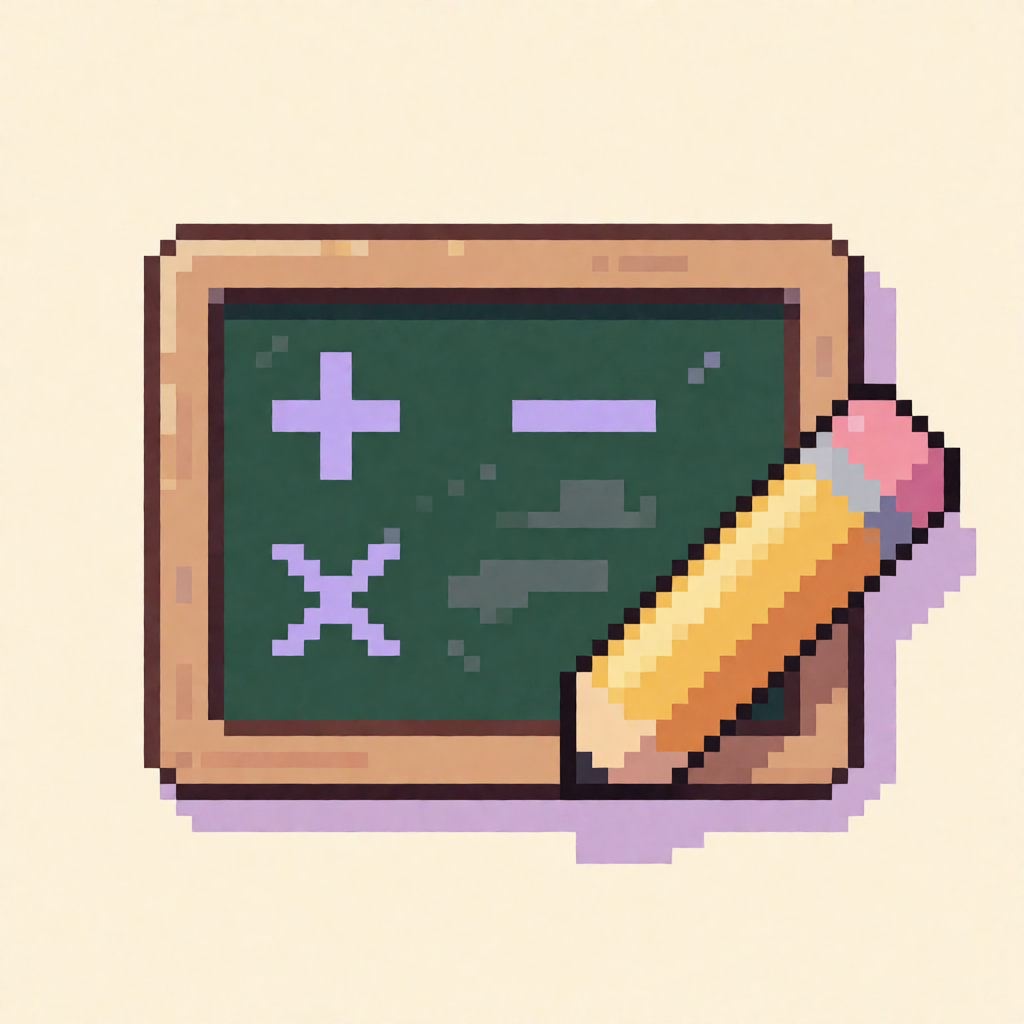
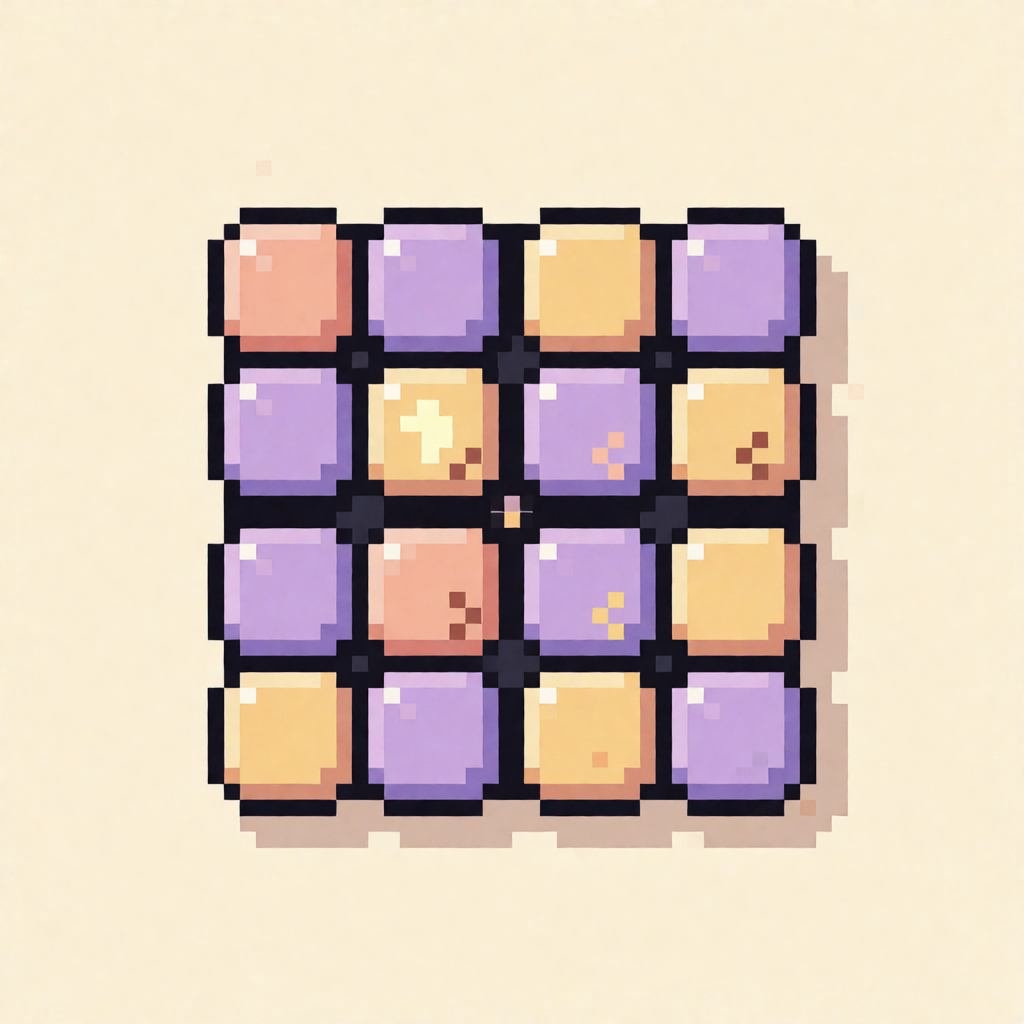
Remove duplicate samples, LAN --host flag, MIT footer, shorter README
- Drop duplicate fixtures sample_7/sample_8 (sample_2 replaced).
- Validators: default to $TMPDIR/gridsprite-validate (was a hardcoded
  machine-specific path) and clear stale dumps; 114/114 checks.
- GUI: add --host (default 127.0.0.1) with a warning on non-loopback
  binds; export dir now comes only from --outdir (was client-supplied
  and --outdir was ignored); 64 MB upload cap like the API.
- API: help text + warning for non-loopback --host.
- README: condensed, MIT footer, uses assets/hero.png as before/after.

diff --git a/gridsprite_gui.py b/gridsprite_gui.py
@@ -15,9 +15,10 @@ Features:
     + palette JSON/TXT)
 
 Usage:
-    python3 gridsprite_gui.py [--port 8642] [--outdir out]
+    python3 gridsprite_gui.py [--port 8642] [--outdir out] [--host 127.0.0.1]
 
 Opens http://127.0.0.1:PORT in your default browser. Ctrl+C to stop.
+Pass --host 0.0.0.0 to reach it from other devices on your network.
 """
 
 import argparse
@@ -38,6 +39,8 @@ import gridsprite as px
 
 SESSIONS = {}
 LOCK = threading.Lock()
+OUT_DIR = "out"                  # set from --outdir; never taken from requests
+MAX_BODY = 64 * 1024 * 1024      # 64 MB upload cap
 
 
 # ------------------------------------------------------------------ analysis
@@ -98,7 +101,7 @@ def export(data):
     if despeckle > 1:
         removed, _ = px.despeckle(mapping, despeckle,
                                   skip_idx=(transparent,) if transparent is not None else ())
-    outdir = data.get("outdir", "out")
+    outdir = OUT_DIR
     os.makedirs(outdir, exist_ok=True)
     base = os.path.splitext(os.path.basename(sess["name"]))[0]
     base = re.sub(r"[^A-Za-z0-9_.-]", "_", base)
@@ -161,6 +164,8 @@ class Handler(BaseHTTPRequestHandler):
 
     def read_body(self):
         n = int(self.headers.get("Content-Length", 0))
+        if n > MAX_BODY:
+            raise ValueError(f"body too large ({n} bytes; max {MAX_BODY})")
         return self.rfile.read(n)
 
     # -- routes -------------------------------------------------------------
@@ -179,7 +184,7 @@ class Handler(BaseHTTPRequestHandler):
             path = q.get("f", "")
             if os.path.dirname(path) or path.startswith("."):
                 return self.send_json({"error": "bad path"}, 400)
-            self.send_file_bytes(os.path.join("out", path))
+            self.send_file_bytes(os.path.join(OUT_DIR, path))
         else:
             self.send_json({"error": "not found"}, 404)
 
@@ -1431,13 +1436,20 @@ def main():
                                  formatter_class=argparse.RawDescriptionHelpFormatter)
     ap.add_argument("--port", type=int, default=8642)
     ap.add_argument("--outdir", default="out")
+    ap.add_argument("--host", default="127.0.0.1",
+                    help="bind address; 0.0.0.0 exposes it to your network")
     ap.add_argument("--no-browser", action="store_true")
     args = ap.parse_args()
+    global OUT_DIR
+    OUT_DIR = args.outdir
     url = f"http://127.0.0.1:{args.port}"
 
-    server = ThreadingHTTPServer(("127.0.0.1", args.port), Handler)
+    server = ThreadingHTTPServer((args.host, args.port), Handler)
     print(f"Gridsprite GUI running at {url}  (Ctrl+C to stop)")
-    print("Outputs are written to ./out/ as in the CLI.")
+    if args.host not in ("127.0.0.1", "localhost", "::1"):
+        print(f"WARNING: listening on {args.host}:{args.port} — anyone on your "
+              f"network can use it and write exports to {OUT_DIR}/")
+    print(f"Outputs are written to {OUT_DIR}/")
     if not args.no_browser:
         try:
             subprocess.Popen(["open", url])

diff --git a/gridsprite_api.py b/gridsprite_api.py
@@ -608,12 +608,16 @@ class Handler(BaseHTTPRequestHandler):
 def main():
     ap = argparse.ArgumentParser(description=__doc__)
     ap.add_argument("--port", type=int, default=8643)
-    ap.add_argument("--host", default="127.0.0.1")
+    ap.add_argument("--host", default="127.0.0.1",
+                    help="bind address; 0.0.0.0 exposes it to your network")
     args = ap.parse_args()
     ensure_out_dir()
     server = ThreadingHTTPServer((args.host, args.port), Handler)
     print(f"Gridsprite API v{API_VERSION} on http://{args.host}:{args.port}"
           f" — POST /api/v1/process with raw image bytes", flush=True)
+    if args.host not in ("127.0.0.1", "localhost", "::1"):
+        print(f"WARNING: listening on {args.host} — anyone on your network "
+              f"can use it", flush=True)
     try:
         server.serve_forever()
     except KeyboardInterrupt:

diff --git a/tools/validate_static.py b/tools/validate_static.py
@@ -11,6 +11,7 @@ import glob
 import json
 import os
 import sys
+import tempfile
 
 import numpy as np
 from PIL import Image
@@ -84,8 +85,13 @@ def dump(path, outdir):
 
 def main():
     outdir = sys.argv[1] if len(sys.argv) > 1 else \
-        "/private/var/folders/7m/5flc5f_968l56dfcl0d218700000gn/T/opencode/validate"
+        os.path.join(tempfile.gettempdir(), "gridsprite-validate")
     os.makedirs(outdir, exist_ok=True)
+    # drop dumps of fixtures that no longer exist, so the JS side never
+    # compares against stale references
+    for f in glob.glob(os.path.join(outdir, "*.expected.json")) + \
+            glob.glob(os.path.join(outdir, "*.raw")):
+        os.remove(f)
     here = os.path.dirname(os.path.abspath(__file__))
     root = os.path.dirname(here)
     files = sorted(glob.glob(os.path.join(root, "sample_*.png")))

diff --git a/README.md b/README.md
@@ -4,224 +4,49 @@
   <img src="sample_5.png" alt="Gridsprite logo" width="256"/>
 </p>
 
-<p align="center">
-  <strong>Recovers the true pixel grid from upscaled, anti-aliased or smeared sprites — and hands back a crisp, recolorable SVG</strong>
-</p>
+Gridsprite takes upscaled, anti-aliased or JPEG-smeared pixel art and recovers the original sprite: the true pixel grid and the true palette. It exports the sprite as a clean SVG that's easy to recolor, plus a crisp PNG.
 
-<p align="center">
-  <em>"Every pixel ends up exactly where it belongs."</em>
-</p>
+**Try it in the browser:** [iterativekey.github.io/GridSprite](https://iterativekey.github.io/GridSprite/). Everything runs locally and nothing is uploaded.
 
-<p align="center">
-  <img src="https://img.shields.io/badge/Python-3.9%2B-blue.svg?logo=python&logoColor=white" alt="Python 3.9+"/>
-  <img src="https://img.shields.io/badge/Static%20Web-No%20Backend%2C%20No%20Uploads-brightgreen.svg" alt="Static"/>
-  <img src="https://img.shields.io/badge/JS%20Port%20Fidelity-152%2F152%20Checks-orange.svg" alt="Fidelity"/>
-  <img src="https://img.shields.io/badge/License-MIT-yellow.svg" alt="License MIT"/>
-</p>
+![Smeared input (left) and recovered sprite (right)](assets/hero.png)
 
----
+## How it works
 
-## Table of Contents
+1. **Grid detection:** finds the largest cell size whose edges all line up, so an 8px sub-phase never beats the real 16px grid.
+2. **Rectification:** takes each cell's dominant color from its center, ignoring anti-aliasing halos.
+3. **Palette quantization:** merges near-identical colors (tolerance 18 by default).
+4. **Background removal:** makes the border color transparent only where it touches the edge, so white eyes on a white background stay white.
+5. **SVG meshing:** merges cells into as few rectangles as possible, with one `<g fill="#hex">` group per color. To recolor, edit a single `fill`.
 
-- [Overview](#overview)
-- [The Pipeline](#the-pipeline)
-  - [1. Grid Detection](#1-grid-detection)
-  - [2. Rectification](#2-rectification)
-  - [3. Palette Quantization](#3-palette-quantization)
-  - [4. Edge-Connected Background Removal](#4-edge-connected-background-removal)
-  - [5. Rectangle Meshing → SVG](#5-rectangle-meshing--svg)
-- [The Editor (GUI)](#the-editor-gui)
-  - [Global / Region / Brush](#global--region--brush)
-  - [Shimmer Previews](#shimmer-previews)
-  - [Palettes & Presets](#palettes--presets)
-  - [Themes & Responsiveness](#themes--responsiveness)
-- [Components](#components)
-- [The Static Web Version (GitHub Pages)](#the-static-web-version-github-pages)
-- [Architecture & Tech Stack](#architecture--tech-stack)
-- [Getting Started & Development](#getting-started--development)
-  - [Running the CLI](#running-the-cli)
-  - [Running the Local GUI](#running-the-local-gui)
-  - [Running the HTTP API](#running-the-http-api)
-  - [Verifying the JS Port](#verifying-the-js-port)
-- [License](#license)
+## Usage
 
----
-
-## Overview
-
-**Gridsprite** is published by Iterative Key LLC. It takes images that *should* be pixel art — upscaled, JPEG-smeared, resized-broken screenshots — and recovers the original sprite hiding inside them: the true pixel grid, the true palette, one dominant color per logical cell. The result is exported as a hand-editable SVG where every color is one `<g>` group, so recoloring a sprite is changing a `fill` value.
-
-Born from scraping sprites out of game captures and retro website assets and being tired of tracing them by hand:
-
-- **Sub-Grid Ambiguity, Resolved:** the detector scans per axis for the *largest* cell size whose edge peaks all sit on one phase — so an 8px sub-phase of a true 16px unit never fools it.
-- **Built for Bad Sources:** dominant-per-cell sampling ignores anti-aliasing halos; a reported RMSE ("smearometer") tells you how noisy the input was.
-- **Smart Transparency:** solid backgrounds are removed with an *edge-connected* flood fill — white eyeballs on a white background survive, canvas around them does not.
-- **Editable Output:** maximal-rectangle meshing keeps SVG node counts low and grouping keeps edits one attribute away.
-
-Three ways to use it: a **Python CLI**, a **local web editor** (paint, recolor, export — light/dark themes, works on phones), a **stateless HTTP API** for scripts and agents — plus a **static browser-only version** of the editor you can host on GitHub Pages.
-
----
-
-## The Pipeline
-
-### 1. Grid Detection
-
-Per axis, the smoothed luminance edge profile is searched for strong edge peaks; the largest candidate cell size in `[min_scale, max_scale]` (default 4–64 px) whose *every* strong edge lands on a single phase (within 0.25 × step) wins. Rectification reports per-axis alignment offsets and a median deviation so you can see exactly how much the source disagrees.
-
-### 2. Rectification
-
-Each logical cell contributes its dominant color, sampled from the central (1 − 2×0.15) portion of the cell so alignment drift does not spill across boundaries. The reconstruction RMSE per cell is kept as a quality diagnostic.
-
-### 3. Palette Quantization
-
-Greedy merging in RGB space within a configurable tolerance (default 18), one weighted-centroid refinement pass, then dominant-color reassignment. Output: a compact palette and a cell → palette index map.
-
-### 4. Edge-Connected Background Removal
-
-The dominant color along the border ring (≥ 30% share) becomes transparent — but only where it is 4-connected to the canvas border. Interior islands of the same color (think white eyes on a sprite over a white background) always stay opaque. Optional despeckle removes connected regions smaller than N cells by flooding them with the majority color of their neighbors.
-
-### 5. Rectangle Meshing → SVG
-
-A greedy maximal-rectangle decomposition (background cells excluded) meshes the grid into as few `<rect>` elements as possible. The SVG is organized one `<g id="pcN" fill="#hex">` per palette color — recoloring is editing the `fill`, and each hex is unique file-wide so find-and-replace works.
-
-Alongside the SVG: a native-resolution RGBA PNG, a nearest-neighbor preview PNG at source size, and palette JSON/TXT.
-
----
-
-## The Editor (GUI)
-
-A local web GUI (`gridsprite_gui.py`) for hands-on sprite surgery. Drag images anywhere onto the window; they are grid-snapped and quantized automatically, then sit in a file list awaiting edits.
-
-### Global / Region / Brush
-
-| Mode | Pick | What it does |
-|---|---|---|
-| **Global** | a palette color | shimmer-previews every cell that could change; click a second color to recolor the whole class |
-| **Region** | a cluster of same-colored cells | 4- or 8-connected flood selection; recolor the whole region with one click |
-| **Brush** | palette chip, preset or picker | paints individual cells, drag to paint continuously |
-
-Additional tools: `⌘Z` undo (100 levels), background-transparency toggle, despeckle strength, and an **Apply to affected** button that routes the custom picker to whichever mode is active.
-
-### Shimmer Previews
-
-Nothing changes until you confirm: cells affected by a pending edit pulse with an animated shimmer overlay — a global recolor shows every cell it would touch, a region shows its extent, the brush shows the cell under the pointer.
-
-### Palettes & Presets
-
-Every palette chip carries cell counts; four preset swatch sets (pastel, vivid, classic, nature) inject colors into the active mode's flow.
-
-### Themes & Responsiveness
-
-- **Light & dark themes** with a header toggle, persisted per browser, defaulting to the OS preference — the canvas checkerboard and shimmer overlay adapt to both.
-- **Responsive:** three-pane on desktop (files / canvas / tools), full-width tool grid on tablets, single column with a horizontal file strip on phones. Pointer events give touch phones real brush painting.
-- **Typography:** embedded Inter variable font (SIL OFL 1.1), tabular numerals for stats — renders identically offline.
-
----
-
-## Components
-
-| File | What it is |
-|---|---|
-| `gridsprite.py` | Core library + CLI: `python3 gridsprite.py image.png -o out [--color-tol T] [--keep-bg] [--despeckle N] [--swap #old=#new]` |
-| `gridsprite_gui.py` | Local web editor: `python3 gridsprite_gui.py --port 8799` |
-| `gridsprite_api.py` | Stateless JSON HTTP API for scripts and AI agents: `python3 gridsprite_api.py --port 8643` — see [`API.md`](API.md) |
-| `docs/` | The same editor as a **fully static site** — pipeline ported 1:1 to JavaScript, deployable to GitHub Pages |
-| `.claude/skills/gridsprite/SKILL.md` | Agent skill describing the HTTP API |
-| `tools/validate_static.py` + `.mjs` | Cross-implementation equivalence proof for the JS port (see [below](#verifying-the-js-port)) |
-| `sample_*.png` | Test fixtures (upscaled pixel-art sprites) |
-
----
-
-## The Static Web Version (GitHub Pages)
-
-`docs/` is a dependency-free static web app — the same GUI as the local server, with the entire pipeline (grid detection, quantization, background flood fill, despeckle, rectangle meshing, SVG/PNG generation) executed **in the browser**:
-
-- **Nothing leaves your device:** no backend, no uploads, works offline via `file://`.
-- **Identical output:** the JS port is validated byte-for-byte against the numpy pipeline (SVG text, palettes, cell maps, PNG data) — see the fidelity numbers below.
-- **Exports download directly:** SVG / native PNG / upscaled preview / palette JSON+TXT, individually or zipped.
-
-The published site lives at **[https://iterativekey.github.io/GridSprite/](https://iterativekey.github.io/GridSprite/)**.
-
-To publish (one-time setup):
-
-> **Settings → Pages → Build and deployment → Deploy from a branch →** branch `main`, folder `/docs`
-
----
-
-## Architecture & Tech Stack
-
-```
-gridsprite/
-├── gridsprite.py            # Core pipeline + CLI (numpy: grid detect, rectify, quantize, mesh)
-├── gridsprite_gui.py        # Local web editor — HTTP server + embedded UI (themes, presets, brush)
-├── gridsprite_api.py        # Stateless JSON HTTP API for scripts and AI agents
-├── docs/
-│   ├── index.html           # Static web editor (UI shell, embedded Inter font)
-│   ├── pipeline.js          # 1:1 JS port of the numpy pipeline (validated)
-│   ├── app.js               # Static editor logic — in-browser analyze/export, Blob downloads
-│   └── zip.js               # Minimal store-only ZIP writer (no dependencies)
-├── tools/
-│   ├── validate_static.py   # Dumps numpy-pipeline reference outputs for all fixtures
-│   └── validate_static.mjs  # Compares the JS port — byte-equal SVG/PNG/palette/mapping
-├── assets/hero.png          # Input fixture next to its recovered output
-├── sample_*.png             # Test fixtures (upscaled pixel-art sprites)
-└── API.md                   # HTTP API reference
-```
-
----
-
-## Getting Started & Development
-
-### Running the CLI
-
-Requires **Python 3.9+** with `numpy` and `pillow`:
+Requires Python 3.9+ with `numpy` and `pillow`:
 
 ```bash
 python3 -m venv .venv && .venv/bin/pip install numpy pillow
-
-# Process one image
-.venv/bin/python gridsprite.py sample_1.png -o out
-
-# Process everything in the current directory, keeping the background opaque,
-# cleaning specks smaller than 3 cells and swapping a palette color
-.venv/bin/python gridsprite.py -o out --keep-bg --despeckle 3 --swap '#7e8c54=#aab88a'
 ```
 
-### Running the Local GUI
+| Tool | Command |
+|---|---|
+| CLI | `.venv/bin/python gridsprite.py sample_1.png -o out [--keep-bg] [--despeckle N] [--swap '#old=#new']` |
+| Editor (global/region/brush recoloring, undo, themes) | `.venv/bin/python gridsprite_gui.py` → http://127.0.0.1:8642 |
+| HTTP API for scripts and agents ([API.md](API.md)) | `.venv/bin/python gridsprite_api.py` → http://127.0.0.1:8643 |
 
-```bash
-.venv/bin/python gridsprite_gui.py --port 8799
-```
+The CLI processes every image in the current directory when you don't name any files.
 
-Opens `http://127.0.0.1:8799` — drop images anywhere in the window. Bindings default to `127.0.0.1`; keep it that way.
+The editor and the API listen on localhost only. To use them from other devices on your network, add `--host 0.0.0.0`. Anyone on that network can then use them.
 
-### Running the HTTP API
+## Static site
 
-```bash
-.venv/bin/python gridsprite_api.py --port 8643
-curl -sS -X POST --data-binary @sample_1.png \
-  "http://127.0.0.1:8643/api/v1/process?render_width=512"
-```
+`docs/` is the editor with the pipeline ported to dependency-free JavaScript. It's served by GitHub Pages from `main` → `/docs` and also works from `file://`.
 
-The API is stateless, speaks JSON, and serves rendered artifacts for download — see [`API.md`](API.md) for the full surface (analyze/process, palette swaps, size-exact rendering).
-
-### Verifying the JS Port
-
-The static version's pipeline is proven equivalent to the numpy implementation on every fixture — 152 checks covering grid parameters, palette order, cell mapping, rect counts, region counts, SVG text, palette files and PNG bytes:
+To check that the JS port matches the Python pipeline byte-for-byte on every `sample_*.png`:
 
 ```bash
 .venv/bin/python tools/validate_static.py && node tools/validate_static.mjs
-# → 152/152 checks passed — equivalence verified
+# → 114/114 checks passed — equivalence verified
 ```
 
-One deliberate mechanism makes cross-library equivalence possible: the grid-fit tolerance subtracts a 1e-6 px margin (`FIT_MARGIN`), so knife-edge fits that land exactly on the boundary are rejected deterministically instead of flipping on floating-point ulp differences between math libraries. It has never changed the chosen grid on real inputs — the validation run is the receipt.
+## License
 
----
-
-<p align="center">
-  <sub>Built for pixel artists, game modders and archival scrapers of retro web assets.</sub>
-</p>
-
-<p align="center">
-  <sub>© 2026 Iterative Key LLC. All rights reserved.</sub>
-</p>
+[MIT](LICENSE) © 2026 Iterative Key LLC
